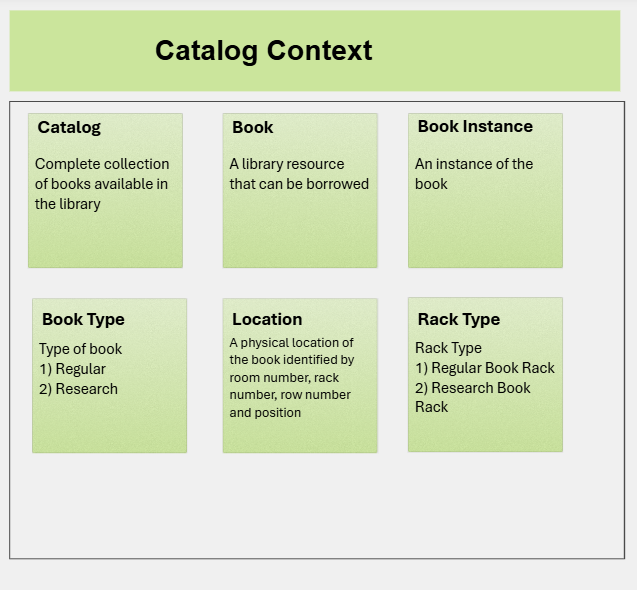
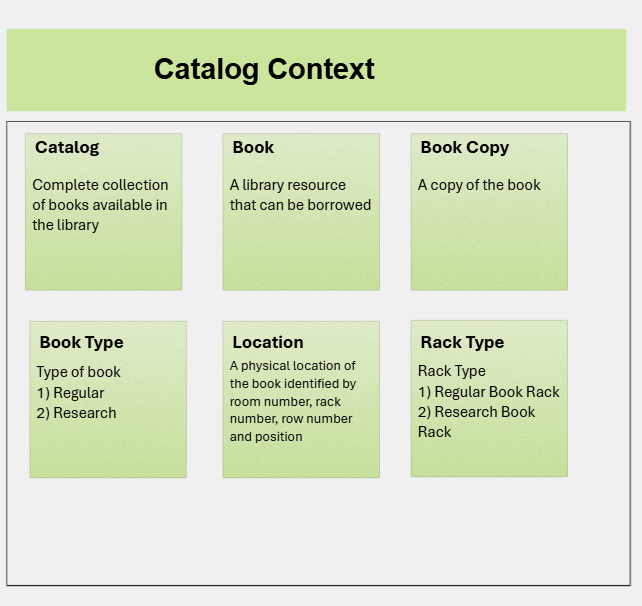
added catalog use cases and updated membership use cases

Changed region(s): [[0.0, 0.0, 0.9843, 0.9763], [0.6264, 0.4271, 0.8948, 0.7322], [0.6264, 0.7627, 0.8948, 0.7932]]

diff --git a/docs/domain/CatalogUseCaseMapping.md b/docs/domain/CatalogUseCaseMapping.md
@@ -1,0 +1,56 @@
+This page describes all the use case mappings that we identified in the catalog context based on the requirements and process level discussions. These are documented using the BDD style specifications
+
+# Adding a new regular type book
+
+Scenario: Adding a new regular book to the catalog
+
+Given the librarian Mrs. Robinson purchases five copies of a 'The Count of Monte Cristo'
+When she adds a book with an ISBN number, author and publication details as a regular type book
+Then LMS registers the book as a regular type book and add adds five copies of the book
+And assigns locations to the copies in the regular rack
+
+
+
+# Adding an instance of existing regular book
+Scenario: Adding a new copy of existing book
+
+Given the librarian Mrs. Robinson purchases a new copy of 'The Count of Monte Cristo'
+When she adds the copy of the book
+Then LMS registers the book copy against the existing book
+And assigns a location to the copy in the regular rack
+
+# Adding a new research type book
+
+Scenario: Adding a new research book to the catalog
+
+Given the librarian Mrs. Robinson purchases one copy of 'Data Structures and Algorithms in Python'
+When she adds a book with an ISBN number, author and publication details as a research type book
+Then LMS registers the book as a research type book and add adds one copy of the book
+And assigns locations to the copies in the research rack
+
+
+
+# Adding an instance of existing research book
+
+Scenario: Adding a new copy of existing book
+
+Given the librarian Mrs. Robinson purchases a new copy of 'Data Structures and Algorithms in Python'
+When she adds the copy of the book
+Then LMS registers the book copy against the existing book
+And assigns a location to the copy in the research rack
+
+# Searching books by Author
+
+Scenario : Searching books by author
+
+Given Maddy wants to search all the books present in catalog that are written by Rudyard Kipling
+When Maddy submits his query
+Then LMS provides a list of all the books present in the catalog that are written by Rudyard Kipling with their availability status and rack number if the book is available
+
+# Searching books by Title
+
+Scenario: Searching books by title
+
+Given Maddy wants to search for the title 'Pride and Prejudice'
+When Maddy submits his query
+Then LMS provides all possible matches for the query with the book availability status and rack number if the books is available

diff --git a/docs/domain/MembershipUseCaseMapping.md b/docs/domain/MembershipUseCaseMapping.md
@@ -5,8 +5,8 @@ This page describes all the use case mappings that we identified in the membersh
 Scenario: Onboarding a citizen as a regular patron
 
 Given Maddy visits the library to register as a patron
-When the Librarian verifies that Maddy is not already a registered patron
-And the Librarian verifies the address proof
+When the Librarian Mrs. Robinson verifies that Maddy is not already a registered patron
+And verifies the address proof
 And submits the onboarding application
 Then the LMS onboards Maddy as a regular patron
 And Issue the membership card with a unique patron id
@@ -17,7 +17,7 @@ And notifies Maddy by sending the Patron Id and a link to sign-up on the website
 Scenario: Onboarding a citizen as a research patron
 
 Given Dr. Patel visits the library to register as a patron
-When the Librarian verifies that Dr. Patel is not already a registered patron
+When the Librarian Mrs. Robinson verifies that Dr. Patel is not already a registered patron
 And verifies the address proof
 And verifies the proof of ongoing research
 And submits the onboarding application
@@ -31,8 +31,8 @@ And notifies Dr. Patel by sending an email with the Patron Id and a link to sign
 Scenario: Rejecting onboarding of an existing regular patron
 
 Given Greg visits the library to register as a patron
-When the Librarian verifies that Greg is already a regular patron
-Then the LMS system rejects the Patron Membership onboarding request
+When the Librarian Mrs. Robinson verifies that Greg is already a regular patron
+Then the LMS rejects the Patron Membership onboarding request
 And notifies Greg by sending an email of rejection with reason
 
 # Reject onboarding for an existing research patron
@@ -40,7 +40,7 @@ And notifies Greg by sending an email of rejection with reason
 Scenario: Rejecting onboarding of an existing research patron
 
 Given Lukas visits the library to register as a patron
-When the Librarian verifies that Lukas is already a research patron
+When the Librarian Mrs. Robinson verifies that Lukas is already a research patron
 Then the LMS rejects the Patron Membership onboarding request
 And notifies Lukas by sending an email of rejection with reason
 
